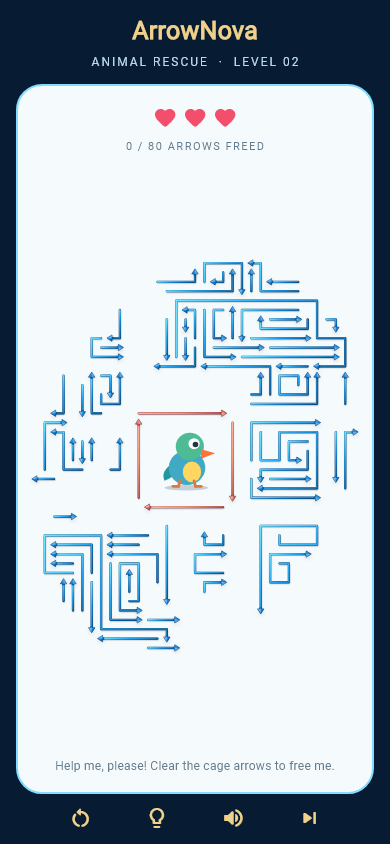
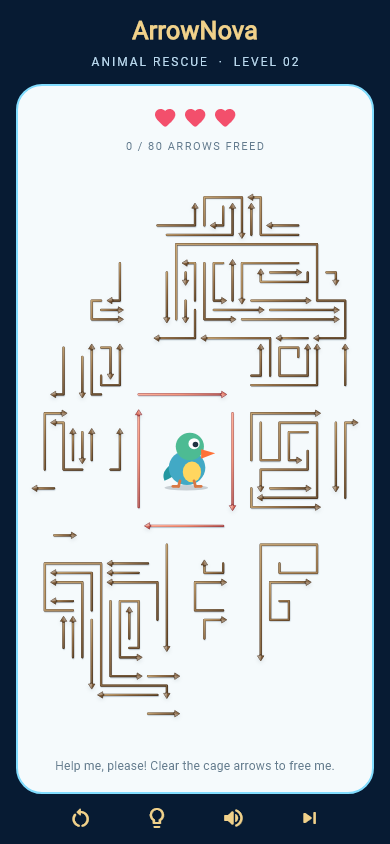
Match Rescue board composition to maze reference

diff --git a/mobile/lib/game/puzzle.dart b/mobile/lib/game/puzzle.dart
@@ -210,11 +210,39 @@ class LevelCatalog {
       paths.addAll([
         for (var i = 0; i < 4; i++) ArrowPath(cageStart + i, cage[i]),
       ]);
+      final allCells = paths.expand((path) => path.cells);
+      final minX = allCells.map((cell) => cell.x).reduce(min);
+      final minY = allCells.map((cell) => cell.y).reduce(min);
+      final maxX = allCells.map((cell) => cell.x).reduce(max);
+      final maxY = allCells.map((cell) => cell.y).reduce(max);
+      // Match the portrait reference by using the source board's vertical
+      // space fully instead of leaving broad top and bottom margins.
+      const verticalScale = 4 / 3;
+      final scaledPaths = <ArrowPath>[];
+      for (final path in paths) {
+        final cells = <Cell>[];
+        for (final cell in path.cells) {
+          final next = Cell(
+            cell.x - minX,
+            ((cell.y - minY) * verticalScale).round(),
+          );
+          if (cells.isNotEmpty && cells.last.x == next.x) {
+            final step = (next.y - cells.last.y).sign.toInt();
+            var y = cells.last.y + step;
+            while (y != next.y) {
+              cells.add(Cell(next.x, y));
+              y += step;
+            }
+          }
+          cells.add(next);
+        }
+        scaledPaths.add(ArrowPath(path.id, cells));
+      }
       return Puzzle(
         level,
-        classicHard.width,
-        classicHard.height,
-        paths,
+        maxX - minX + 1,
+        ((maxY - minY) * verticalScale).round() + 1,
+        scaledPaths,
         rescueCageIds: {cageStart, cageStart + 1, cageStart + 2, cageStart + 3},
       );
     }

diff --git a/mobile/tool/render_level_approval_screens_test.dart b/mobile/tool/render_level_approval_screens_test.dart
@@ -51,11 +51,25 @@ void main() {
     )) {
       expect(arrow.cells.toSet().intersection(occupiedOutsideCage), isEmpty);
     }
-    final centerX = rescueTwo.width ~/ 2;
-    final centerY = rescueTwo.height ~/ 2;
+    final cageCells = rescueTwo.arrows
+        .where((arrow) => rescueTwo.rescueCageIds.contains(arrow.id))
+        .expand((arrow) => arrow.cells)
+        .toList();
+    final minX = cageCells
+        .map((cell) => cell.x)
+        .reduce((a, b) => a < b ? a : b);
+    final minY = cageCells
+        .map((cell) => cell.y)
+        .reduce((a, b) => a < b ? a : b);
+    final maxX = cageCells
+        .map((cell) => cell.x)
+        .reduce((a, b) => a > b ? a : b);
+    final maxY = cageCells
+        .map((cell) => cell.y)
+        .reduce((a, b) => a > b ? a : b);
     final animalPocket = {
-      for (var y = centerY - 4; y <= centerY + 4; y++)
-        for (var x = centerX - 5; x <= centerX + 3; x++) Cell(x, y),
+      for (var y = minY + 1; y < maxY; y++)
+        for (var x = minX + 1; x < maxX; x++) Cell(x, y),
     };
     expect(occupiedOutsideCage.intersection(animalPocket), isEmpty);
   });
@@ -150,7 +164,7 @@ Future<void> _capture(
                           child: Padding(
                             padding: const EdgeInsets.all(8),
                             child: ArrowBoard(
-                              theme: boardThemes.first,
+                              theme: rescue ? rescueBoardTheme : boardThemes.first,
                               game: game,
                               activeId: blockedDemo
                                   ? game.puzzle.arrows

diff --git a/mobile/lib/game_screen.dart b/mobile/lib/game_screen.dart
@@ -69,7 +69,9 @@ class _GameScreenState extends State<GameScreen>
   String? reviveMessage;
   final playTime = Stopwatch();
   int restoredMs = 0;
-  BoardTheme get activeTheme => learning
+  BoardTheme get activeTheme => widget.rescue
+      ? rescueBoardTheme
+      : learning
       ? boardThemes.first
       : levelBoardTheme(widget.progress.selectedTheme, game.puzzle.level);
   String get runKey => widget.rescue
@@ -1071,6 +1073,7 @@ class _GameScreenState extends State<GameScreen>
                   ],
                 ),
               ),
+            ),
             ),
             ),
             if (blocked && active != null && !learning && !widget.rescue &&

diff --git a/mobile/lib/game/board_themes.dart b/mobile/lib/game/board_themes.dart
@@ -54,6 +54,16 @@ const boardThemes = [
   ),
 ];
 
+const rescueBoardTheme = BoardTheme(
+  'rescue-earth',
+  'Rescue earth',
+  0,
+  Color(0xFF4C351F),
+  Color(0xFFC7A777),
+  Color(0xFF86623D),
+  Color(0xFFF8F8FA),
+);
+
 BoardTheme boardTheme(String id) => boardThemes.firstWhere(
   (theme) => theme.id == id,
   orElse: () => boardThemes.first,
